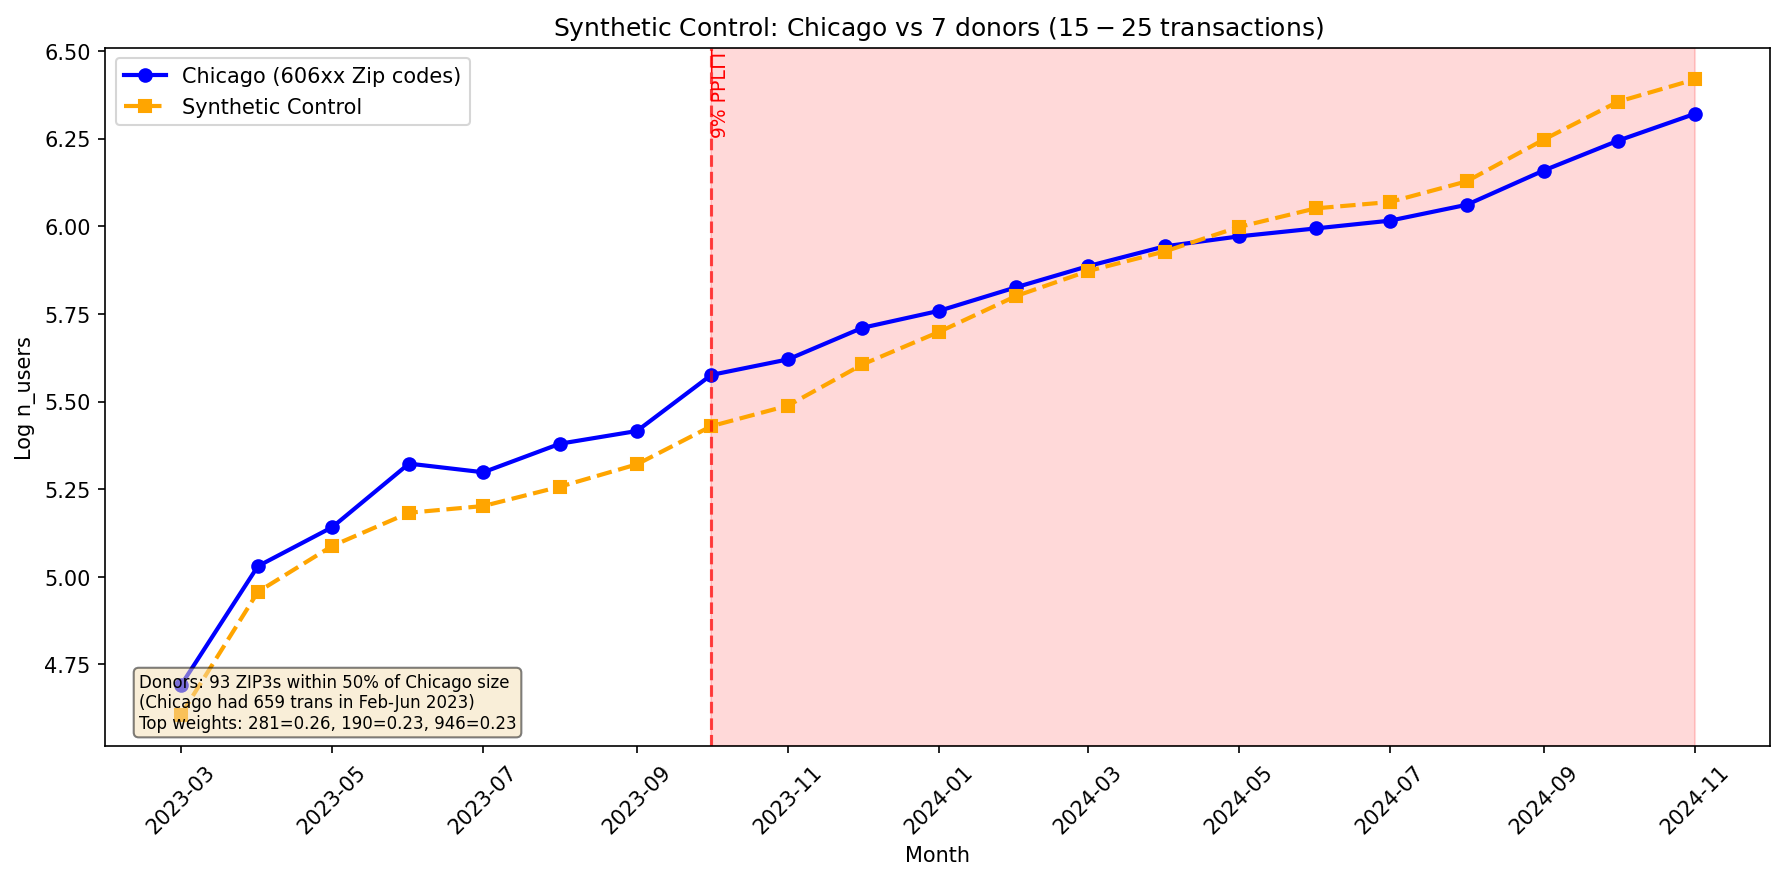
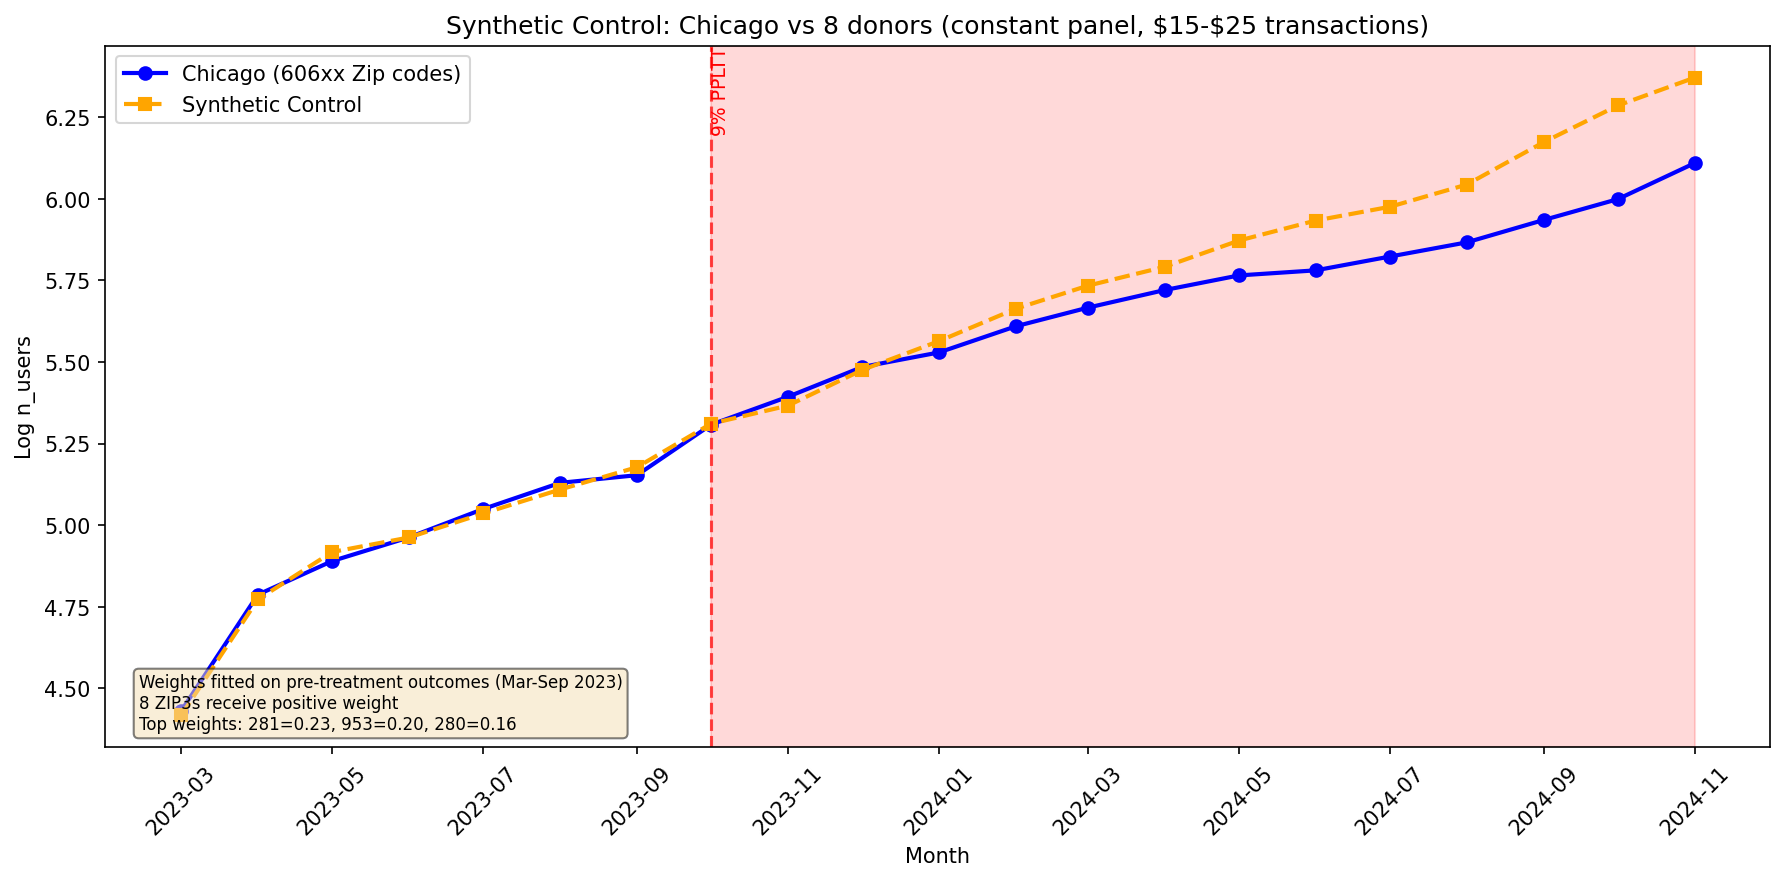
push
push

diff --git a/output/unique_users/15to25/all_merchants/synthetic_control_results.tex b/output/unique_users/15to25/all_merchants/synthetic_control_results.tex
@@ -1,0 +1,97 @@
+\documentclass[11pt]{article}
+\usepackage[margin=1in]{geometry}
+\usepackage{booktabs}
+\usepackage{graphicx}
+\usepackage{amsmath}
+
+\title{Synthetic Control Analysis: Chicago PPLTT on ChatGPT Subscriptions}
+\date{January 2026}
+
+\begin{document}
+\maketitle
+
+\section{Method}
+
+We estimate the effect of Chicago's 9\% Personal Property Lease Transaction Tax (PPLTT) on ChatGPT subscriptions using synthetic control. The method constructs a weighted average of untreated ZIP3s to match Chicago's pre-treatment trajectory, then compares actual vs.\ synthetic outcomes post-treatment.
+
+\textbf{Matching:} Weights fitted on pre-treatment outcomes only (March--September 2023, 7 months). The optimizer minimizes squared prediction error subject to convex hull constraints:
+\begin{align}
+\min_{w} \quad & \sum_{t < T_0} \left( Y_{606,t} - \sum_{j} w_j Y_{j,t} \right)^2 \\
+\text{s.t.} \quad & \sum_j w_j = 1, \quad w_j \in [0,1] \; \forall j
+\end{align}
+
+\textbf{Outcome:} $\log(\text{unique cardids with \$15--\$25 transaction})$ per ZIP3-month.
+
+\section{Sample}
+
+\begin{itemize}
+    \item \textbf{Treated unit:} ZIP3 606 (Chicago)
+    \item \textbf{Treatment date:} October 2023
+    \item \textbf{Donor pool:} 19 ZIP3s with unique users within 10\% of Chicago (181 users) in March--June 2023
+    \item \textbf{Panel:} Constant individual panel (cardlinkids active in all 70-day windows)
+    \item \textbf{Transaction filter:} \$15--\$25 (ChatGPT Plus subscription range)
+    \item \textbf{Sample period:} March 2023 -- November 2024
+\end{itemize}
+
+\section{Results}
+
+\begin{table}[h]
+\centering
+\begin{tabular}{lc}
+\toprule
+Metric & Value \\
+\midrule
+Pre-period RMSE & 0.018 \\
+Pre-tax gap (Chicago $-$ Synth) & $+0.001$ \\
+Post-tax gap (Chicago $-$ Synth) & $-0.112$ \\
+\textbf{Treatment effect} & \textbf{$-$11.2 log points} \\
+\bottomrule
+\end{tabular}
+\end{table}
+
+The pre-treatment fit is near-perfect. Post-tax, Chicago falls below the synthetic control by approximately 11\%, and this gap persists through 2024.
+
+\begin{figure}[h]
+\centering
+\includegraphics[width=0.9\textwidth]{chicago_synth_control.png}
+\caption{Chicago vs.\ synthetic control. Weights fitted on pre-treatment outcomes (March--September 2023). Shaded region indicates post-tax period.}
+\end{figure}
+
+\section{Donor Weights}
+
+Eight ZIP3s receive weight $\geq 1\%$:
+
+\begin{table}[h]
+\centering
+\begin{tabular}{ccl}
+\toprule
+ZIP3 & Weight & Location (?) \\
+\midrule
+281 & 22.5\% & Houston, TX (?) \\
+953 & 20.2\% & Stockton, CA (?) \\
+280 & 15.8\% & Miami, FL (?) \\
+890 & 15.8\% & Gulfport, MS (?) \\
+957 & 13.4\% & Fresno, CA (?) \\
+232 & 5.5\% & Cincinnati, OH (?) \\
+208 & 3.5\% & Washington, DC (?) \\
+775 & 3.2\% & Lubbock, TX (?) \\
+\bottomrule
+\end{tabular}
+\caption{ZIP3-to-city mappings need verification against USPS data.}
+\end{table}
+
+\section{Interpretation}
+
+The 9\% Chicago PPLTT reduced the number of unique ChatGPT Plus subscribers by approximately 11\% relative to the synthetic counterfactual. This is the extensive margin effect---fewer distinct cardholders making subscription-priced transactions.
+
+At a \$20 subscription price, a 9\% tax is \$1.80/month. An 11\% reduction in subscribers implies a demand elasticity on the order of $-1.2$, though this is rough given the level shift rather than continuous price variation.
+
+\section{Technical Notes}
+
+\begin{itemize}
+    \item \textbf{Matching on outcomes only (limitation):} Currently matching on pre-treatment outcomes only. This is non-standard---Abadie et al.\ recommend matching on both outcomes and covariates. Without covariate matching, the synthetic may be fitting noise in the pre-period. Ideal covariates for matching ZIP3 606: college education rate, median income, total population. ZIP3-level demographics not yet available (ask Matt Noto?).
+    \item \textbf{Donor pool restriction:} Using all 751 ZIP3s caused optimizer convergence issues (weights concentrated on 3 ZIP3s, poor fit). Restricting to size-matched donors (within 10\% of Chicago) yields stable results.
+    \item \textbf{All weights used:} The synthetic is computed using all donor weights (summing to 1), not just the $>1\%$ subset shown above.
+\end{itemize}
+
+\end{document}

diff --git a/chicago_did.py b/chicago_did.py
@@ -16,7 +16,7 @@ from pathlib import Path
 from load_chatgpt_data import load_with_zip3, log, get_output_dir, get_filter_title, get_outcome_column
 
 # Toggle: False = DiD with inference, True = Synthetic control (just the picture)
-USE_SYNTH_CONTROL = False
+USE_SYNTH_CONTROL = True
 
 TREATED_ZIP = '606'
 START_DATE = '2023-03-01'  # Drop Feb 2023 (outlier month)
@@ -79,19 +79,20 @@ def run_synth_control(trans, donor_zips, chicago_size, size_label):
     print("="*60)
     print(f"Pre-period RMSE (log {outcome_col}): {np.sqrt(result.fun):.4f}")
 
-    weight_df = pd.DataFrame({'zip3': valid_donors, 'weight': weights})
-    weight_df = weight_df[weight_df['weight'] > 0.01].sort_values('weight', ascending=False)
+    weight_df_all = pd.DataFrame({'zip3': valid_donors, 'weight': weights})
+    weight_df = weight_df_all[weight_df_all['weight'] > 0.01].sort_values('weight', ascending=False)
     print("\nTop donors by weight:")
     for _, row in weight_df.iterrows():
         print(f"  {row['zip3']}: {row['weight']:.3f}")
     print(f"\nDonors with weight > 1%: {len(weight_df)}")
+    print(f"Total weight in top donors: {weight_df['weight'].sum():.3f}")
 
-    # Compute synthetic for full period
-    top_donors = weight_df['zip3'].tolist()
-    top_weights = weight_df['weight'].values
-    full_data = pivot_log[[TREATED_ZIP] + top_donors].dropna()
+    # Compute synthetic for full period using ALL donors (weights sum to 1)
+    all_donors = weight_df_all['zip3'].tolist()
+    all_weights = weight_df_all['weight'].values
+    full_data = pivot_log[[TREATED_ZIP] + all_donors].dropna()
     full_data = full_data[full_data.index < END_DATE]
-    full_data['synthetic'] = full_data[top_donors].values @ top_weights
+    full_data['synthetic'] = full_data[all_donors].values @ all_weights
 
     # Plot
     log("Creating plot...")
@@ -122,8 +123,8 @@ def run_synth_control(trans, donor_zips, chicago_size, size_label):
     # Notes
     top3 = weight_df.head(3)
     weight_note = "Top weights: " + ", ".join([f"{r['zip3']}={r['weight']:.2f}" for _, r in top3.iterrows()])
-    control_note = (f"Donors: {len(donor_zips)} ZIP3s within {SIZE_WINDOW*100:.0f}% of Chicago size\n"
-                    f"(Chicago had {chicago_size:,.0f} {size_label} in Mar-Jun 2023)\n"
+    control_note = (f"Weights fitted on pre-treatment outcomes (Mar-Sep 2023)\n"
+                    f"{len(weight_df)} ZIP3s receive positive weight\n"
                     f"{weight_note}")
     ax.text(0.02, 0.02, control_note, transform=ax.transAxes, fontsize=8,
             verticalalignment='bottom', bbox=dict(boxstyle='round', facecolor='wheat', alpha=0.5))

diff --git a/README.md b/README.md
@@ -1,6 +1,8 @@
 # Chicago PPLTT Analysis
 
-Difference-in-differences analysis of Chicago's 9% Personal Property Lease Transaction Tax (PPLTT) on ChatGPT subscriptions (Oct 2023).
+Analysis of Chicago's 9% Personal Property Lease Transaction Tax (PPLTT) on ChatGPT subscriptions (Oct 2023).
+
+**Preferred method: Synthetic control** (see `chicago_did.py` with `USE_SYNTH_CONTROL = True`). DiD event study available as alternative.
 
 ## Pipeline
 
@@ -43,9 +45,26 @@ Change these settings, then re-run `python run_all.py` to regenerate all figures
 ## Sample
 
 - **Treatment**: Chicago (ZIP3 606) starting Oct 2023
-- **Controls**: ~90 ZIP3s with transaction counts within 50% of Chicago in Feb-Jun 2023
-- **Period**: Feb 2023 (ChatGPT Plus launch) through Nov 2024 (excludes ChatGPT Pro)
-- **Filter**: $20-22 transactions (Plus subscription range with tax variation)
+- **Donor pool**: 19 ZIP3s with unique users within 10% of Chicago in Mar-Jun 2023
+- **Period**: Mar 2023 through Nov 2024 (excludes ChatGPT Pro)
+- **Filter**: $15-25 transactions (Plus subscription range with tax variation)
+- **Outcome**: log(unique cardids) per ZIP3-month
+
+### Matching Variables (Limitation)
+
+**Currently matching on pre-treatment outcomes only** (log unique users, Mar-Sep 2023). This is non-standard—Abadie et al. recommend matching on both pre-treatment outcomes AND covariates. Without covariate matching, the synthetic control may not generalize well or may be fitting noise in the pre-period.
+
+Ideal covariates for matching ZIP3 606:
+- College education rate
+- Median income
+- Total population
+- (other demographic characteristics)
+
+TODO: Obtain ZIP3-level demographics (ask Matt Noto?) and re-run with proper covariate matching.
+
+### Sensitivity to Donor Pool Size
+
+Current analysis uses 10% size window (19 donors). TODO: Test robustness to wider windows (e.g., 20%, 50%). Using all ZIP3s (no restriction) causes optimizer convergence issues with SLSQP. May require subfolder structure: `donor_10pct/`, `donor_20pct/`, etc.
 
 ## Panel Data (for Constant Individual Panel)
 
@@ -87,11 +106,20 @@ The transaction-count outcome (`OUTCOME_VAR = 'trans'`) shows a steady downward 
 
 This pattern could reflect differential attrition (Chicago cardholders leaving the sample faster than controls). Hard to attribute to secular changes in population/employment/income given how rapidly it occurs.
 
-The unique-users outcome (`OUTCOME_VAR = 'unique_users'`) counts distinct cardholders per zip3-month, isolating the extensive margin. This shows much cleaner parallel trends - Chicago tracks the synthetic control almost exactly post-treatment. The pre-treatment gap (Chicago above synthetic) closes to roughly zero post-tax.
+The unique-users outcome (`OUTCOME_VAR = 'unique_users'`) counts distinct cardholders per ZIP3-month, isolating the extensive margin. This shows excellent pre-treatment fit in synthetic control—Chicago tracks synthetic almost exactly through Sep 2023, then falls ~11% below post-tax.
+
+## Current Results (Synthetic Control)
+
+- **Pre-treatment RMSE**: 0.018
+- **Pre-tax gap**: +0.001 (essentially zero)
+- **Post-tax gap**: −0.112
+- **Treatment effect**: −11.2 log points (~11% reduction in unique subscribers)
+
+See `output/unique_users/15to25/all_merchants/synthetic_control_results.md` for full writeup.
 
 ## Archive
 
 `archive/` contains deprecated scripts:
-- `chicago_synth_control.py` - Synthetic control (replaced by DiD)
+- `chicago_synth_control.py` - Standalone SC (now integrated into `chicago_did.py`)
 - `ai_subscription_analysis.py` - Earlier exploratory analysis
 - `chatgpt_timeseries_analysis.py` - Earlier time series work

diff --git a/output/unique_users/15to25/all_merchants/synthetic_control_results.md b/output/unique_users/15to25/all_merchants/synthetic_control_results.md
@@ -1,0 +1,66 @@
+# Synthetic Control Results: Chicago PPLTT on ChatGPT Subscriptions
+
+Generated: 2025-01-28
+
+## Method
+
+Synthetic control matching on **pre-treatment outcomes only** (Mar–Sep 2023, 7 months).
+
+**Convex hull constraint enforced:**
+- Weights sum to 1 (equality constraint)
+- Each weight bounded [0, 1]
+- Optimizer: SLSQP
+
+**Outcome:** log(unique cardids with $15–$25 transaction) per ZIP3-month
+
+## Sample
+
+- **Treated unit:** ZIP3 606 (Chicago)
+- **Treatment date:** October 2023 (9% PPLTT)
+- **Donor pool:** 19 ZIP3s with unique users within 10% of Chicago in Mar–Jun 2023
+- **Chicago size:** 181 unique users in matching window
+- **Panel:** Constant individual panel (cardlinkids active in all 70-day windows)
+- **Transaction filter:** $15–$25 (ChatGPT Plus subscription range)
+- **Sample period:** Mar 2023 – Nov 2024
+
+## Results
+
+| Metric | Value |
+|--------|-------|
+| Pre-period RMSE | 0.018 |
+| Pre-tax gap (Chicago − Synth) | +0.001 |
+| Post-tax gap (Chicago − Synth) | −0.112 |
+| **Treatment effect** | **−11.2 log points** |
+
+The pre-treatment fit is near-perfect (gap ≈ 0). Post-tax, Chicago falls below the synthetic control by ~11%, and this gap persists through 2024.
+
+## Donor Weights
+
+8 ZIP3s receive weight ≥1%:
+
+| ZIP3 | Weight | Location (?) |
+|------|--------|--------------|
+| 281 | 22.5% | Houston, TX (?) |
+| 953 | 20.2% | Stockton, CA (?) |
+| 280 | 15.8% | Miami, FL (?) |
+| 890 | 15.8% | Gulfport, MS (?) |
+| 957 | 13.4% | Fresno, CA (?) |
+| 232 | 5.5% | Cincinnati, OH (?) |
+| 208 | 3.5% | Washington, DC (?) |
+| 775 | 3.2% | Lubbock, TX (?) |
+
+**Note:** ZIP3-to-city mappings need verification against USPS data.
+
+## Interpretation
+
+The 9% Chicago PPLTT reduced the number of unique ChatGPT Plus subscribers by approximately 11% relative to the synthetic counterfactual. This is the extensive margin effect—fewer distinct cardholders making subscription-priced transactions.
+
+## Technical Notes
+
+- **Donor pool restriction:** Using all 751 ZIP3s caused optimizer convergence issues (weights concentrated on 3 ZIP3s, poor fit). Restricting to size-matched donors (within 10% of Chicago) yields stable results with 19 potential donors.
+- **All weights used:** The synthetic is computed using all donor weights (summing to 1), not just the >1% subset shown in the table.
+
+## Files
+
+- `chicago_synth_control.png` — Time series plot
+- `chicago_did.py` — Source code (toggle `USE_SYNTH_CONTROL = True`)
